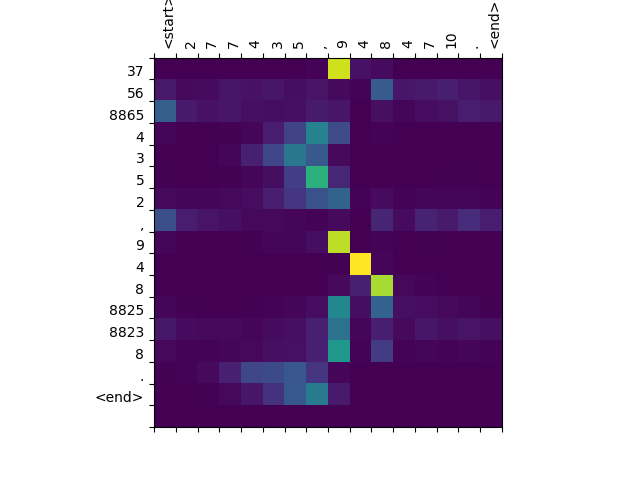
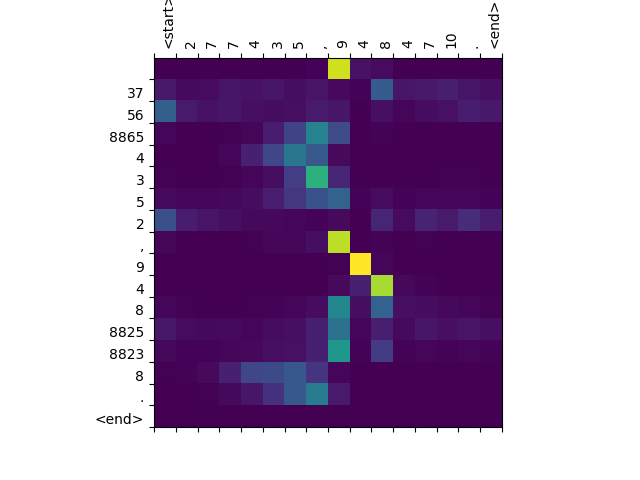
sync

diff --git a/starid/starlanguages.py b/starid/starlanguages.py
@@ -273,12 +273,9 @@ class Model():
         ax.matshow(attention, cmap='viridis')
         fontdict = {'fontsize': 10}
         ax.set_xticks(np.arange(-.5, len(sentence), 1))
-        ax.set_yticks(np.arange(-.5, len(predicted_sentence), 1))
+        ax.set_yticks(np.arange(.5, len(predicted_sentence), 1))
         ax.set_xticklabels([''] + sentence, fontdict=fontdict, rotation=90, ha='right')
         ax.set_yticklabels([''] + predicted_sentence, fontdict=fontdict, va='bottom')
-        # ax.set_xticks(np.arange(-.5, len(sentence), 1), minor=True)
-        # ax.set_yticks(np.arange(-.5, len(predicted_sentence), 1), minor=True)
-        # ax.grid(which='minor', color='w', linestyle='-', linewidth=2)
         plt.show()
 
     def restore(self):
@@ -286,8 +283,8 @@ class Model():
 
     def translate(self, sentence):
         result, sentence, attention_plot = self.evaluate(sentence)
-        print('Input: {}'.format(sentence))
-        print('Predicted translation: {}'.format(result))
+        print('input: {}'.format(sentence))
+        print('translation: {}'.format(result))
         attention_plot = attention_plot[:len(result.split(' ')), :len(sentence.split(' '))]
         Model.plot_attention(attention_plot, sentence.split(' '), result.split(' '))
 

diff --git a/docs/readme.md b/docs/readme.md
@@ -18,8 +18,8 @@ we want to use standard nmt, extending where needed for dynamically generated se
 
     /home/noah/starid/venv/bin/python /home/noah/starid/starid/starlanguages.py
     2018-12-27 12:25:47.625037: I tensorflow/compiler/xla/service/service.cc:158]   StreamExecutor device (0): <undefined>, <undefined>
-    Input: <start> 2 7 7 4 3 5 , 9 4 8 4 7 10 . <end>
-    Predicted translation: 37 56 8865 4 3 5 2 , 9 4 8 8825 8823 8 . <end> 
+    input: <start> 2 7 7 4 3 5 , 9 4 8 4 7 10 . <end>
+    translation: 37 56 8865 4 3 5 2 , 9 4 8 8825 8823 8 . <end> 
     
 ![nmt1](images/nmt1.png)
 
